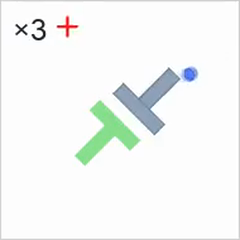
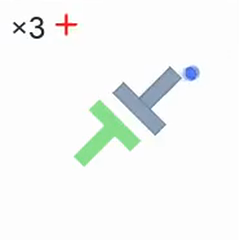
Update Experiment

diff --git a/styles.css b/styles.css
@@ -18,16 +18,16 @@
 .mode-legend{gap:6px 15px}
 @media(max-width:500px){.task-modality-context{padding:0 18px 18px}.task-modality-context ul{grid-template-columns:1fr;font-size:14px}}
 
-.task-introduction{display:grid;grid-template-columns:minmax(0,1fr) 250px;gap:24px;align-items:center;margin:0 28px 22px;padding-bottom:22px;border-bottom:1px solid var(--line)}
+.task-introduction{display:grid;grid-template-columns:minmax(0,1fr) 285px;gap:24px;align-items:center;margin:0 28px 22px;padding-bottom:22px;border-bottom:1px solid var(--line)}
 .task-introduction.has-task-illustration{grid-template-columns:minmax(0,1fr) minmax(0,500px)}
 .task-introduction .task-modality-context{padding:0;margin:0;border:0}
 .task-introduction .task-modality-context ul{grid-template-columns:1fr}
-.task-media{display:grid;grid-template-columns:minmax(0,1fr);gap:16px;width:100%;max-width:500px;align-items:center}
-.has-task-illustration .task-media{grid-template-columns:repeat(2,minmax(0,1fr))}
-.task-rollout,.task-illustration{min-width:0;width:100%}
-.task-media img{width:100%;height:auto;aspect-ratio:4/3;object-fit:contain;background:#fff;border:1px solid var(--line);border-radius:3px}
+.task-media{display:grid;grid-template-columns:minmax(0,1fr);gap:12px;width:var(--media-width,408.36px);max-width:100%;align-items:start;justify-self:end}
+.has-task-illustration .task-media{grid-template-columns:minmax(0,var(--illustration-column,1.477273fr)) minmax(0,var(--rollout-column,1fr))}
+.task-rollout,.task-illustration{min-width:0;width:100%;margin:0}
+.task-media img{width:100%;height:auto;border:0;border-radius:0;background:transparent}
 @media(max-width:900px){.task-introduction.has-task-illustration{grid-template-columns:1fr;gap:18px}.has-task-illustration .task-media{justify-self:center}}
-@media(max-width:600px){.task-introduction{grid-template-columns:1fr;margin-inline:18px;gap:18px}.task-media{justify-self:center;max-width:250px}.has-task-illustration .task-media{max-width:500px;gap:10px}}
+@media(max-width:600px){.task-introduction{grid-template-columns:1fr;margin-inline:18px;gap:18px}.task-media{justify-self:center}}
 
 .paper-section{border-top:1px solid var(--line);padding-top:30px;margin-top:34px}
 .paper-section-heading{display:flex;align-items:baseline;justify-content:space-between;gap:16px;margin-bottom:20px}

diff --git a/index.html b/index.html
@@ -12,8 +12,8 @@
   <meta property="og:type" content="website">
   <meta property="og:url" content="https://immiscible-diffusion-policy.github.io/">
   <link rel="icon" type="image/svg+xml" href="assets/favicon.svg">
-  <link rel="stylesheet" href="styles.css?v=results-4">
-  <script src="app.js?v=results-4" defer></script>
+  <link rel="stylesheet" href="styles.css?v=results-5">
+  <script src="app.js?v=results-5" defer></script>
 </head>
 <body>
 <a class="skip-link" href="#main">Skip to content</a>
@@ -112,7 +112,7 @@
           <div class="task-introduction has-task-illustration">
             <div class="task-modality-context"><h4>Behaviors in this task</h4><ul id="task-modalities"><li>Clockwise pushing</li><li>Counterclockwise pushing</li></ul></div>
             <div class="task-media">
-              <figure class="task-illustration" id="task-illustration"><img id="task-illustration-image" src="assets/tasks/pusht.png" alt="Push T task setup showing both valid pushing directions" width="396" height="270" loading="lazy"></figure>
+              <figure class="task-illustration" id="task-illustration"><img id="task-illustration-image" src="assets/tasks/pusht.png" alt="Push T task setup showing both valid pushing directions" width="390" height="264" loading="lazy"></figure>
               <figure class="task-rollout"><img id="task-rollout-image" src="assets/rollouts/pusht.png" alt="Example Immiscible Diffusion Policy rollout for Push-T" width="240" height="240" loading="lazy"></figure>
             </div>
           </div>

diff --git a/app.js b/app.js
@@ -26,6 +26,13 @@ function renderRollout(task) {
     illustrationImage.width = task.illustration.width;
     illustrationImage.height = task.illustration.height;
   }
+  const media = document.querySelector('.task-media');
+  const rolloutRatio = task.rollout.width / task.rollout.height;
+  const illustrationRatio = task.illustration ? task.illustration.width / task.illustration.height : 0;
+  // Equal visual height, native proportions, and one consistent gap between images.
+  media.style.setProperty('--illustration-column', `${illustrationRatio || 1}fr`);
+  media.style.setProperty('--rollout-column', `${rolloutRatio}fr`);
+  media.style.setProperty('--media-width', `${160 * (illustrationRatio + rolloutRatio) + (task.illustration ? 12 : 0)}px`);
   activeRollout = task.rollout;
   rolloutImage.alt = activeRollout.count
     ? `${activeRollout.count} example Immiscible Diffusion Policy rollouts for ${task.name}`
@@ -115,7 +122,7 @@ tabs.forEach((tab,index) => {
     }
   });
 });
-fetch('data/results.json?v=task-panels-1', {cache: 'no-cache'}).then(response => {
+fetch('data/results.json?v=task-panels-2', {cache: 'no-cache'}).then(response => {
   if (!response.ok) throw new Error('Unable to load results');
   return response.json();
 }).then(data => { tasks = data.tasks; renderTask(selectedTask); }).catch(() => {
